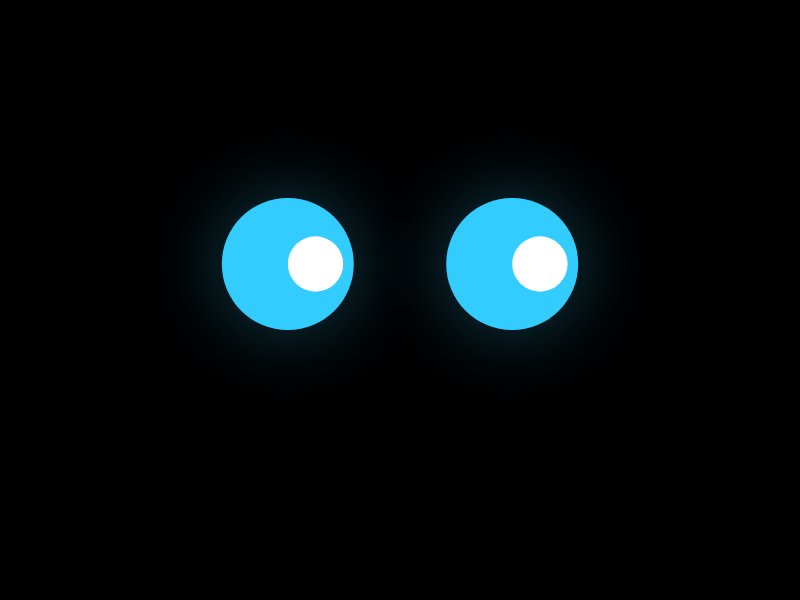
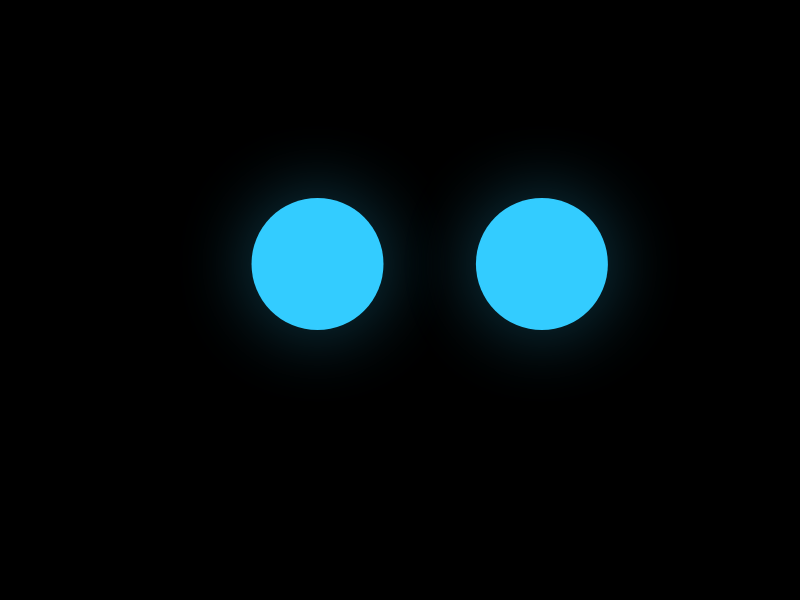
Yeux sans pupilles style EVE, regard globe oculaire (#2)
- FacePainter : pupille blanche supprimée, le regard déplace l'œil entier (±0,45 rayon). - Rapport BDD régénéré (captures sans pupilles). - .gitignore : exclut les *.feature.cs auto-générés par Reqnroll.

Changed region(s): [[0.5312, 0.33, 0.7812, 0.57], [0.25, 0.33, 0.5, 0.57]]

diff --git a/src/TabletApp/UI/FacePainter.cs b/src/TabletApp/UI/FacePainter.cs
@@ -6,11 +6,11 @@ namespace TabletApp.UI;
 /// Dessin pur du visage (sans état ni fenêtre) : utilisable à la fois par le
 /// rendu temps réel (<c>RobotFaceRenderer</c>) et par le self-test offscreen
 /// (<c>SelfTest</c>), qui produit des PNG vérifiables sans écran.
+/// Style EVE : yeux lumineux sans pupilles ; le regard déplace l'œil entier.
 /// </summary>
 internal static class FacePainter
 {
     private static readonly SKColor EyeColor = new(0x33, 0xCC, 0xFF); // cyan lumineux
-    private static readonly SKColor CoreColor = SKColors.White;
 
     public static void DrawFace(
         SKCanvas canvas, int width, int height,
@@ -29,9 +29,13 @@ internal static class FacePainter
         double open, double gazeX, double gazeY,
         double yawn, double timeSeconds)
     {
+        // Sans pupilles : le regard déplace l'œil entier.
+        float cxGaze = cx + (float)(gazeX * r * 0.45);
+        float cyGaze = cy - (float)(gazeY * r * 0.25);
+
         // Bâillement : œil écrasé horizontalement + léger tremblement vertical.
         float rx = (float)(r * (1 - 0.25 * yawn));
-        float cyTremble = cy + (float)(Math.Sin(timeSeconds * 45) * 2.0 * yawn);
+        float cyTremble = cyGaze + (float)(Math.Sin(timeSeconds * 45) * 2.0 * yawn);
 
         // Halo.
         using (var glow = new SKPaint
@@ -41,23 +45,14 @@ internal static class FacePainter
             MaskFilter = SKMaskFilter.CreateBlur(SKBlurStyle.Normal, r * 0.5f),
         })
         {
-            canvas.DrawCircle(cx, cy, r * 1.15f, glow);
+            canvas.DrawCircle(cxGaze, cyGaze, r * 1.15f, glow);
         }
 
         // Corps de l'œil (s'écrase verticalement pendant le clignement).
         float ry = Math.Max(2f, (float)(r * open));
         using (var body = new SKPaint { Color = EyeColor, IsAntialias = true })
         {
-            canvas.DrawOval(cx, cyTremble, rx, ry, body);
-        }
-
-        // Pupille décalée par le regard, contenue dans l'œil même à moitié fermé.
-        float px = cx + (float)(gazeX * r * 0.42);
-        float py = cyTremble - (float)(gazeY * r * 0.25);
-        float pr = Math.Max(1.5f, (float)(r * 0.42 * (0.35 + 0.65 * open)));
-        using (var pupil = new SKPaint { Color = CoreColor, IsAntialias = true })
-        {
-            canvas.DrawOval(px, py, pr, Math.Max(1.5f, pr * (float)open), pupil);
+            canvas.DrawOval(cxGaze, cyTremble, rx, ry, body);
         }
     }
 }

diff --git a/docs/rapport-tests/rapport.md b/docs/rapport-tests/rapport.md
@@ -1,4 +1,4 @@
-# Rapport de tests BDD — 2026-11-18 16:25
+# Rapport de tests BDD — 2026-11-18 16:39
 
 *3 scénarios : 3 OK, 0 KO.*
 
